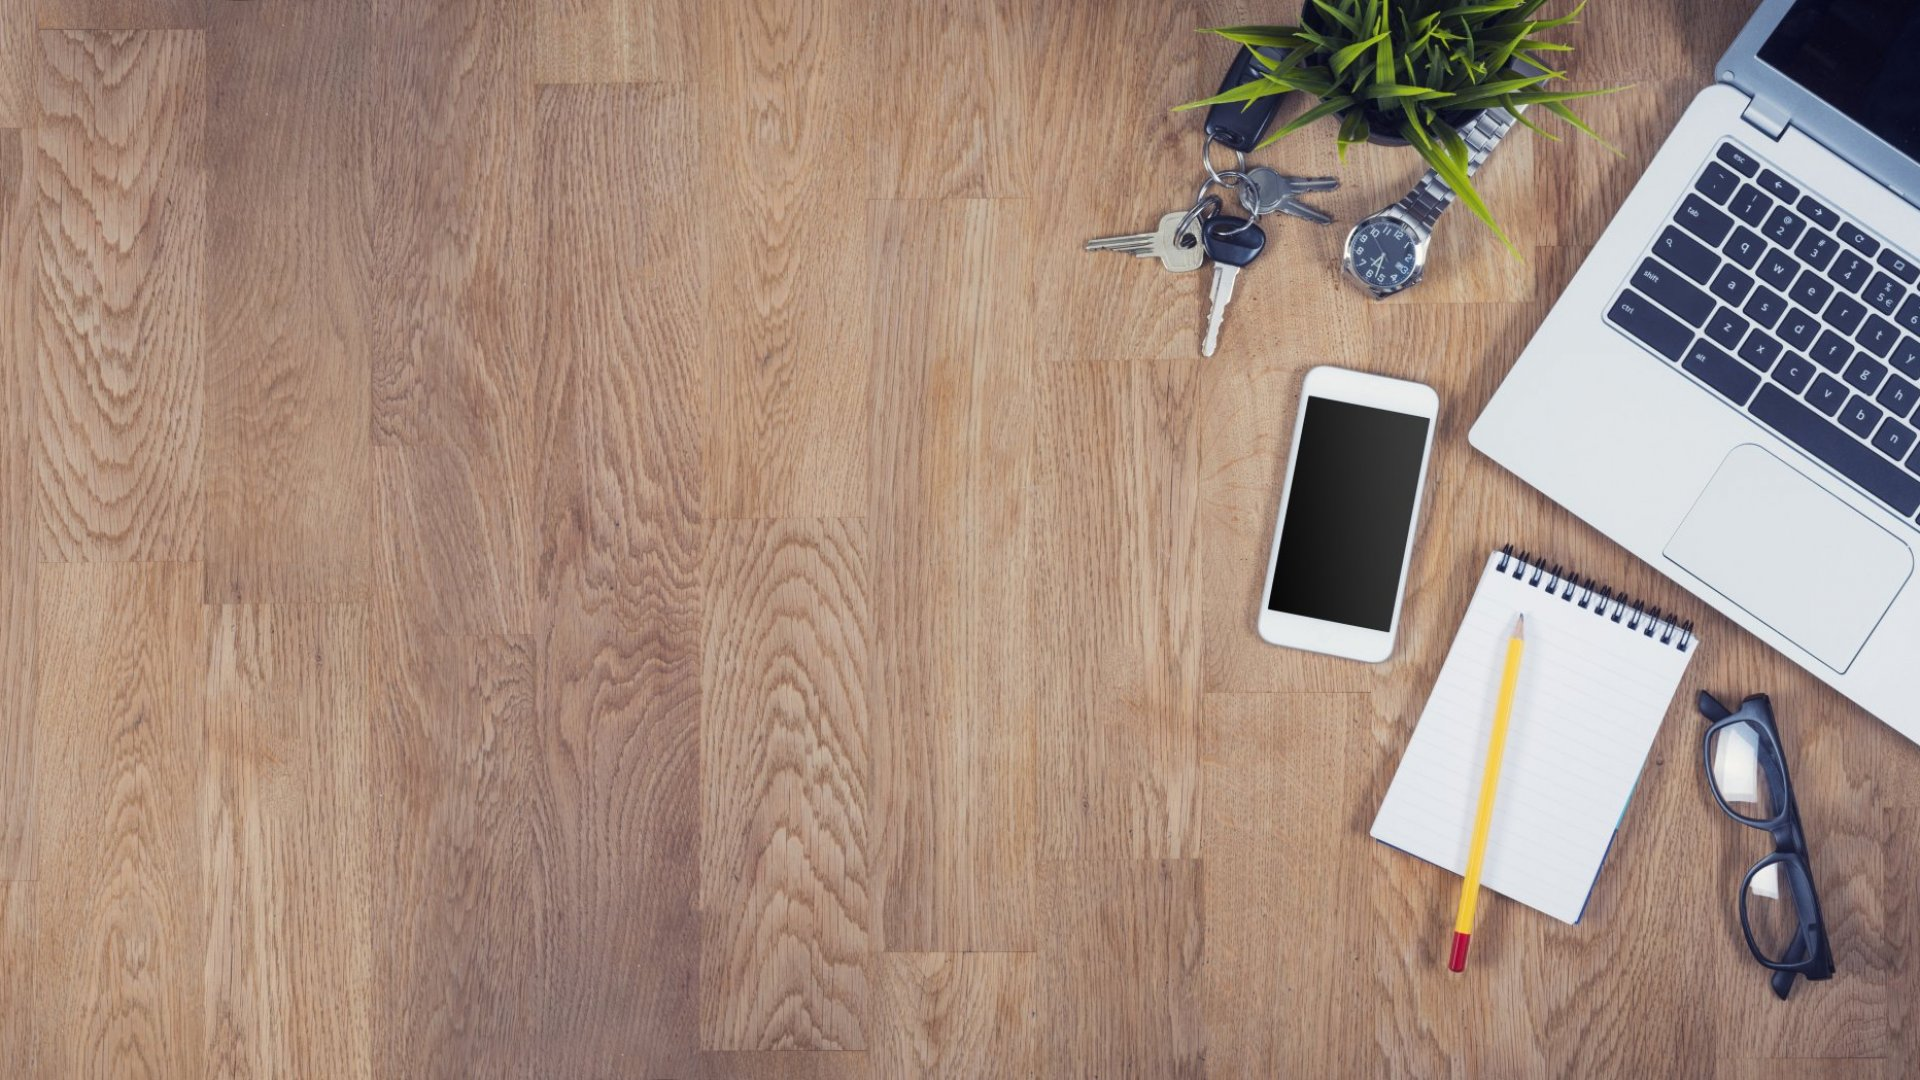
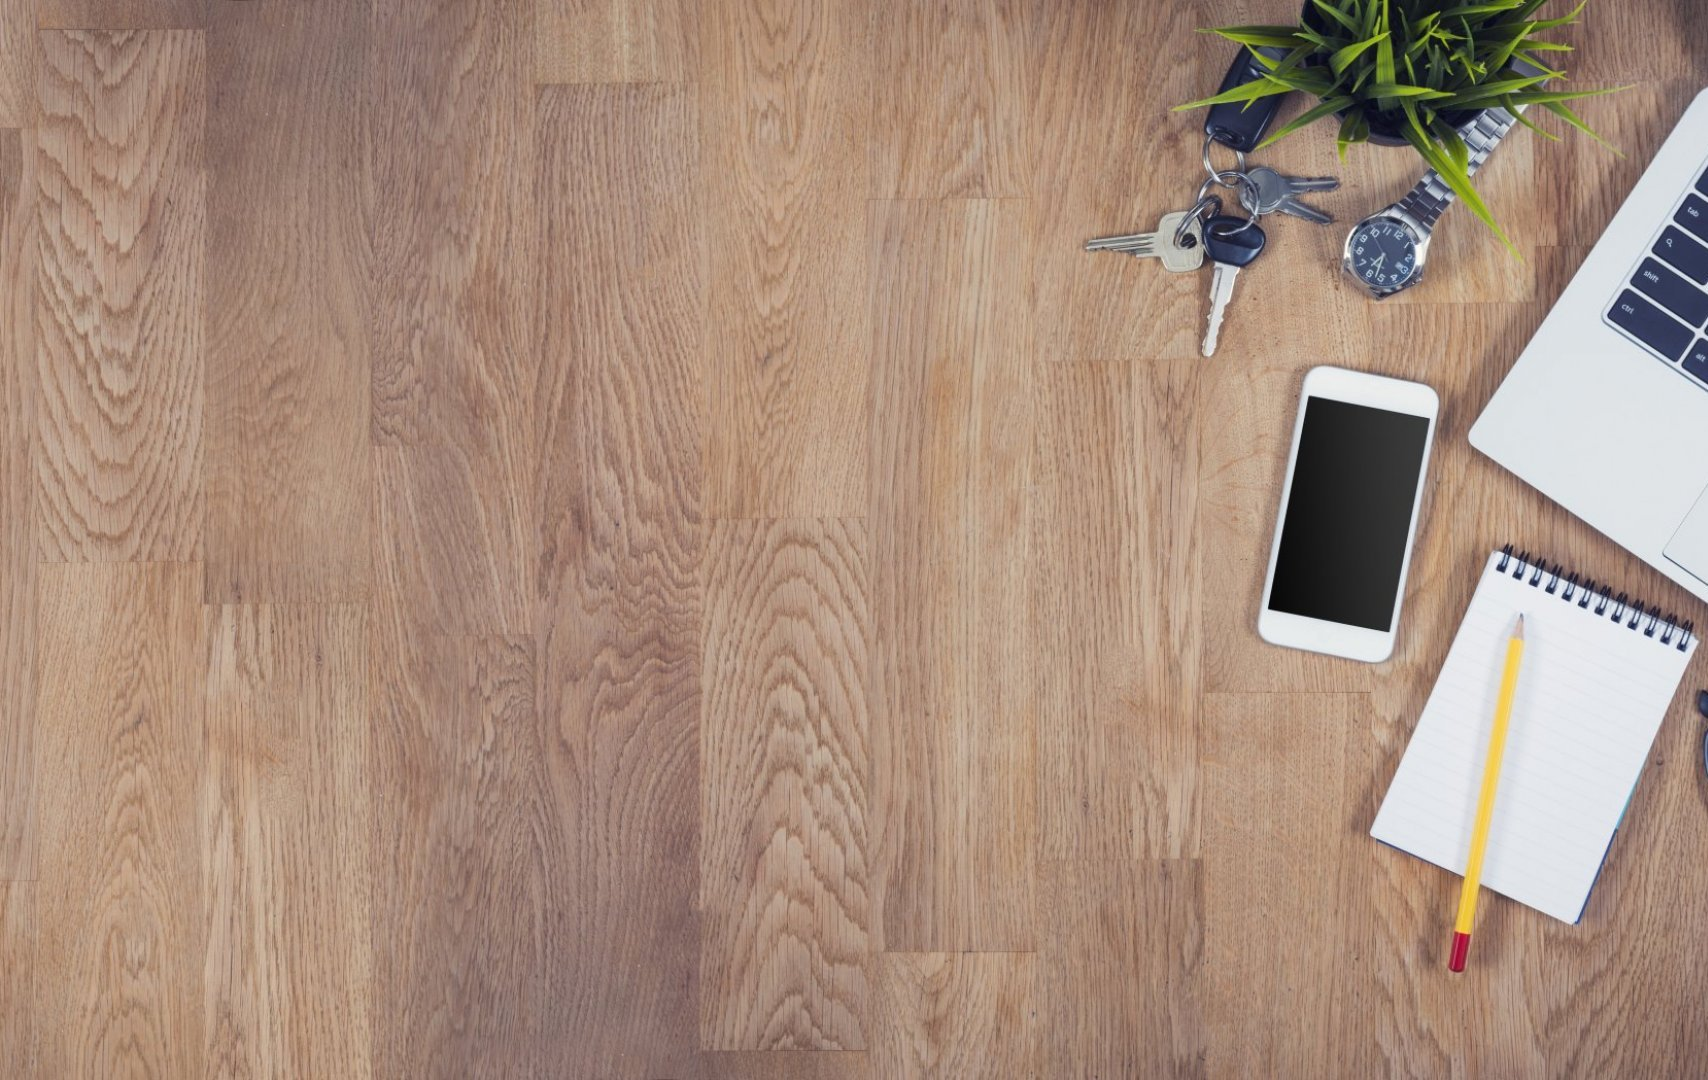
added radical fetch

diff --git a/src/components/DashboardLeftSidebar.js b/src/components/DashboardLeftSidebar.js
@@ -1,7 +1,9 @@
 import React, { useEffect } from "react";
 // Material UI Imports
+import Button from "@mui/material/Button";
 import Divider from "@mui/material/Divider";
 import Drawer from "@mui/material/Drawer";
+import Grid from "@mui/material/Grid";
 import List from "@mui/material/List";
 import ListItem from "@mui/material/ListItem";
 import ListItemIcon from "@mui/material/ListItemIcon";
@@ -12,28 +14,33 @@ import Toolbar from "@mui/material/Toolbar";
 
 import axios from "axios";
 
-import {useSelector, useDispatch} from "react-redux"
+import { useSelector, useDispatch } from "react-redux";
 import { fetchRadicals } from "../redux/slices/characterSlice";
 
-const drawerWidth = 240;
+const drawerWidth = 300;
 
 const DashboardLeftSidebar = () => {
   const radical = useSelector((state) => state.character);
-  const {radicalList, radicalLoading} = radical;
-  console.log("radicalList: ", radicalList)
+  const { radicalList, radicalLoading } = radical;
+  console.log("Rad: ", radicalList)
   const dispatch = useDispatch();
-  const [loading, setLoading] = React.useState(true);
   useEffect(() => {
     const fetchRadical = async () => {
       const response = await axios.get(
         "http://ccdb.hemiola.com/characters/radicals"
       );
-      dispatch(fetchRadicals(response.data));
+        // converted array to Set to remove duplicates
+        const uniqueSet = new Set(response.data.map((o) => o.radical));
+        // converted Set back to array
+        const uniqueArray = Array.from(uniqueSet);
+      dispatch(fetchRadicals(uniqueArray));
     };
     fetchRadical();
-  },[]);
+  }, []);
 
-
+  // if (radicalLoading) {
+  //   return <></>;
+  // }
   return (
     <Drawer
       sx={{
@@ -47,20 +54,43 @@ const DashboardLeftSidebar = () => {
       variant="permanent"
       anchor="left"
     >
-      <Toolbar />
+      <Toolbar>
+        <Grid container>
+          <Grid item>黄</Grid>
+        </Grid>
+      </Toolbar>
       <Divider />
-      <List>
-        {["Inbox", "Starred", "Send email", "Drafts"].map((text, index) => (
-          <ListItem button key={text}>
-            <ListItemIcon>
-              {index % 2 === 0 ? <InboxIcon /> : <MailIcon />}
-            </ListItemIcon>
-            <ListItemText primary={text} />
-          </ListItem>
-        ))}
-      </List>
-      <Divider />
+      <Grid container spacing={2} p={1}>
+        <Grid item sm={12}>
+          <Button variant="outlined" fullWidth>
+            Octopus Deploy
+          </Button>
+        </Grid>
+        <Grid item sm={12}>
+          <Button variant="outlined" fullWidth>
+            Doil
+          </Button>
+        </Grid>
+        <Grid item sm={12}>
+          <Button variant="outlined" fullWidth>
+            Aptugo
+          </Button>
+        </Grid>
+      </Grid>
 
+      <Divider />
+      {radicalLoading === false ? (
+        <List>
+          {radicalList.map((text, index) => (
+            <ListItem button onClick={()=>console.log("clicked: ", text)} key={index}>
+              <ListItemIcon>
+                {index % 2 === 0 ? <InboxIcon /> : <MailIcon />}
+              </ListItemIcon>
+              <ListItemText primary={`Radical ${text}`} />
+            </ListItem>
+          ))}
+        </List>
+      ) : null}
     </Drawer>
   );
 };

diff --git a/src/Pages/Home.js b/src/Pages/Home.js
@@ -1,30 +1,55 @@
 import React from "react";
 
 // Material UI imports
+import Box from "@mui/material/Box";
 import Button from "@mui/material/Button";
+import Container from "@mui/material/Container";
+import Grid from "@mui/material/Grid";
 import Typography from "@mui/material/Typography";
-import ChevronRightIcon from '@mui/icons-material/ChevronRight';
+import ChevronRightIcon from "@mui/icons-material/ChevronRight";
 // import { MyComponent } from "../styles/Home";
-import {Link} from "react-router-dom";
+import { HomeBackgroundImage } from "../styles/Home";
+import { Link } from "react-router-dom";
+
+import HomeBackground from "../images/desktopBirdsEyeView.jpg";
+
 const Home = () => {
   return (
     <>
-      <Typography align="center">
-        The Chinese Radical lookup you always wanted
-      </Typography>
-      <Typography align="center">
-        A Chinese radical is a graphical component of a Chinese character under
-        which the character is traditionally listed in a Chinese dictionary.
-      </Typography>
-      <Button
-        variant="contained"
-        component={Link}
-        to="/dashboard"
-        endIcon={<ChevronRightIcon/>}
-      >
-        Get started
-      </Button>
-      {/* <MyComponent>TESTING THE STYLED COMPONENT</MyComponent> */}
+      <HomeBackgroundImage
+        component="img"
+        alt="Office desk"
+        src={HomeBackground}
+      />
+      <Container sx={{display:"flex", alignItems:"center", pt:15}}>
+        <Grid container>
+          <Grid item xs={12} sm={6}>
+            <Typography variant="h2">
+              The Chinese Radical lookup you always wanted
+            </Typography>
+          </Grid>
+          <Grid item xs={12} sm={6}></Grid>
+          <Grid item xs={12} sm={6}>
+            <Typography variant="h5" gutterBottom>
+              A Chinese radical is a graphical component of a Chinese character
+              under which the character is traditionally listed in a Chinese
+              dictionary.
+            </Typography>
+          </Grid>
+          <Grid item xs={12}>
+            <Button
+              variant="contained"
+              component={Link}
+              to="/dashboard"
+              endIcon={<ChevronRightIcon />}
+              size="large"
+            >
+              Get started
+            </Button>
+          </Grid>
+          {/* <MyComponent>TESTING THE STYLED COMPONENT</MyComponent> */}
+        </Grid>
+      </Container>
     </>
   );
 };

diff --git a/src/index.js b/src/index.js
@@ -5,11 +5,17 @@ import App from "./App";
 import { BrowserRouter } from "react-router-dom";
 import {store} from "./redux/store";
 import { Provider } from "react-redux";
+import { ThemeProvider } from "@mui/material/styles";
+import theme from "./theme";
+import { CssBaseline } from "@mui/material/";
 ReactDOM.render(
   <React.StrictMode>
     <Provider store={store}>
       <BrowserRouter>
-        <App />
+        <ThemeProvider theme={theme}>
+          <CssBaseline />
+          <App />
+        </ThemeProvider>
       </BrowserRouter>
     </Provider>
   </React.StrictMode>,

diff --git a/src/styles/Home.js b/src/styles/Home.js
@@ -1,12 +1,12 @@
 import React from "react";
 // Material UI import
-import {styled} from "@mui/system";
+import { styled } from "@mui/system";
+import Box from "@mui/material/Box";
 import Typography from "@mui/material/Typography";
 
-export const MyComponent = styled(Typography)({
-  color: "darkslategray",
-  backgroundColor: "aliceblue",
-  padding: 8,
-  borderRadius: 4,
+export const HomeBackgroundImage = styled(Box)({
+  position: "fixed",
+  height: "100%",
+  width: "100%",
+  zIndex: "-1",
 });
-

diff --git a/src/components/DashboardAppBar.js b/src/components/DashboardAppBar.js
@@ -4,7 +4,7 @@ import AppBar from "@mui/material/AppBar";
 import Toolbar from "@mui/material/Toolbar";
 import Typography from "@mui/material/Typography";
 
-const drawerWidth = 240;
+const drawerWidth = 300;
 
 const DashboardAppBar = () => {
     return (

diff --git a/src/theme.js b/src/theme.js
@@ -1,0 +1,6 @@
+import { createTheme, responsiveFontSizes } from "@mui/material/styles";
+
+let theme = createTheme();
+theme = responsiveFontSizes(theme);
+
+export default theme;
